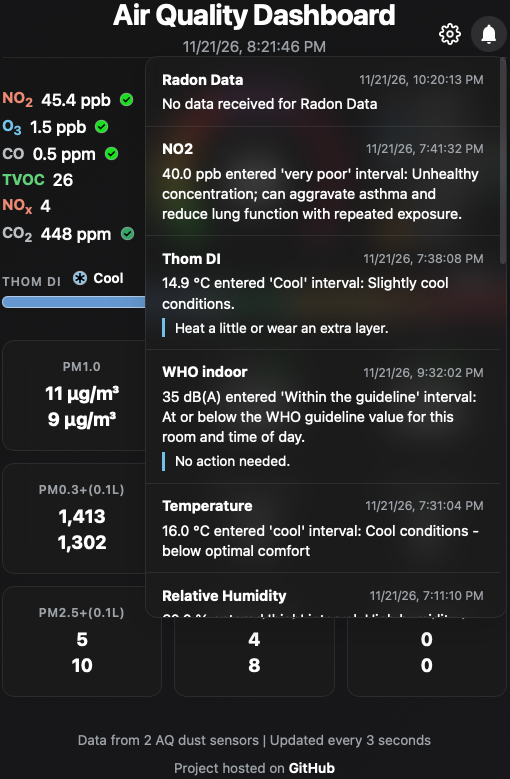
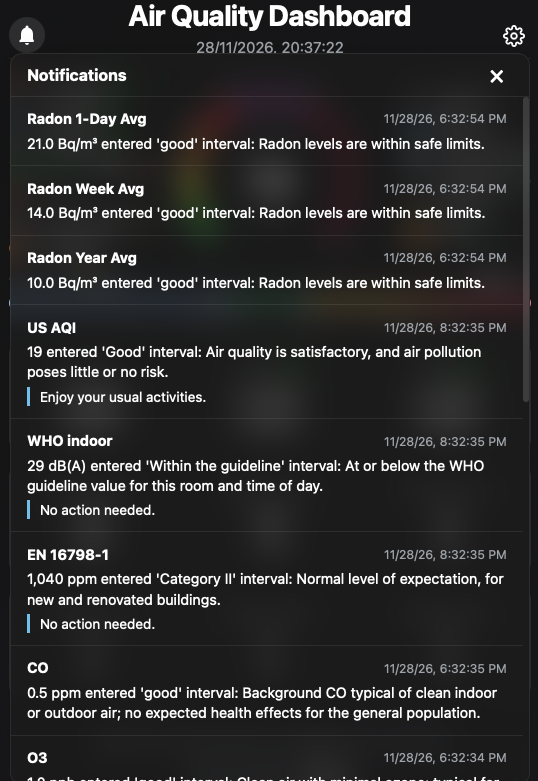
updated screenshots

diff --git a/README.md b/README.md
@@ -71,10 +71,11 @@ When running under systemd, dashboard and sensor worker logs are available in th
 
 <p align="center">
   <img src="screenshots/aq_dashboard.png" alt="Air Quality Dashboard" width="45%">
+  <img src="screenshots/aq_dashboard_mobile.png" alt="Air Quality Dashboard on a Mobile Device" width="35%">
 </p>
 <p align="center">
-  <img src="screenshots/aq_dashboard_settings.png" alt="Air Quality Dashboard Settings" width="50%">
   <img src="screenshots/aq_dashboard_notifications.png" alt="Air Quality Dashboard with Notifications" width="45%">
+  <img src="screenshots/aq_dashboard_settings.png" alt="Air Quality Dashboard Settings" width="45%">
 </p>
 
 Left Column Values (Air Pollutants):
